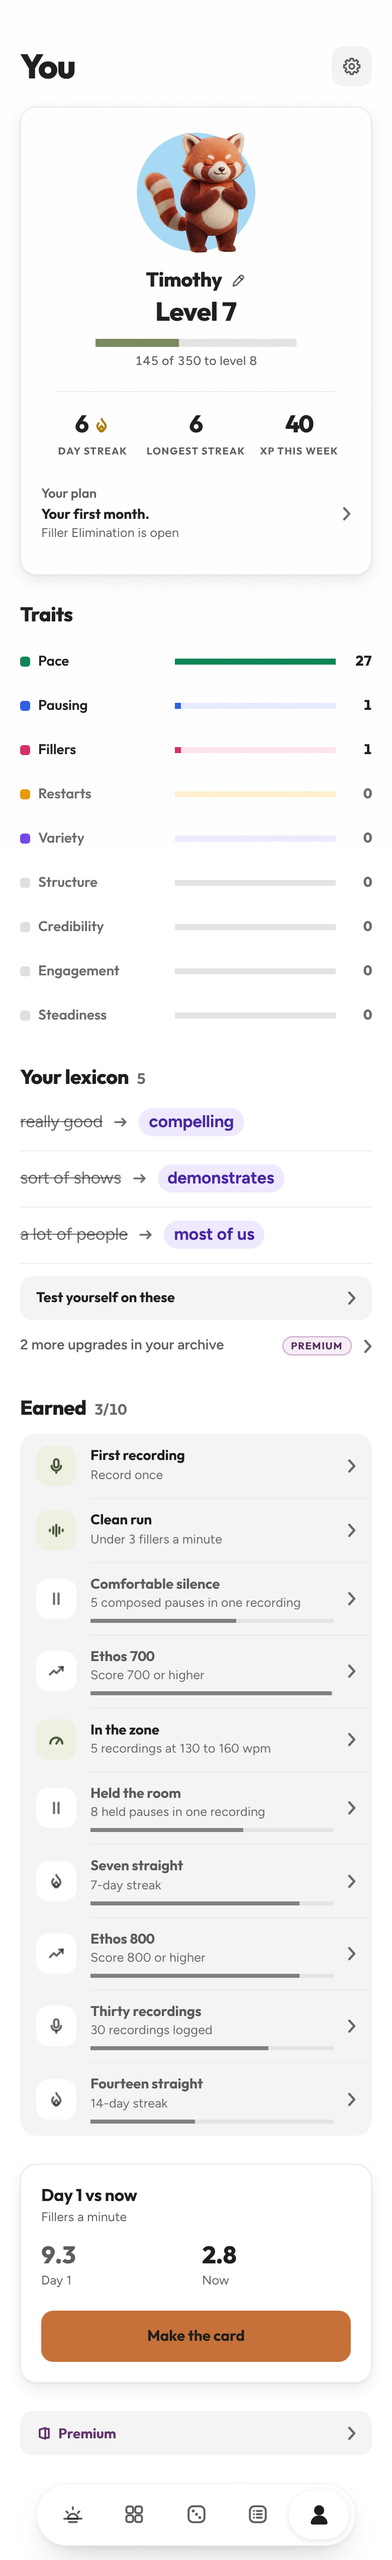
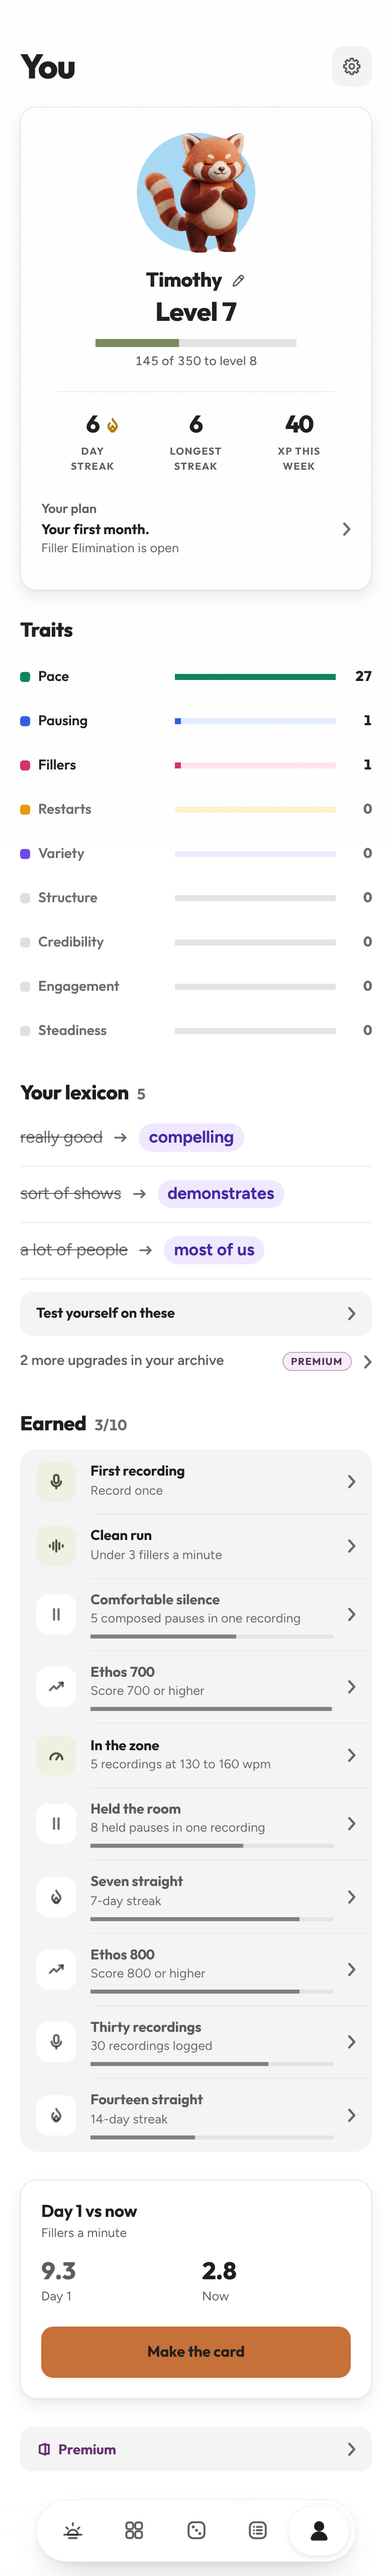
B7: the look loop on You: two-line stat labels, a centred streak, the gate on the card's edge
Stat labels run two short lines at every width (one line crowded the
three at 390 and broke only the longest at 375); the streak flame hangs
off its number so all three numbers centre over their labels; the
account gate takes p-5 and a detail head like Day 1 vs now above it;
the bar's gear twin keeps the title row's 20px gutter.

Claude-Session: https://claude.ai/code/session_01KQpi1wPL2sdqgKKvt94vrP

diff --git a/app/you/page.tsx b/app/you/page.tsx
@@ -699,8 +699,10 @@ export default function YouPage() {
       )}
 
       {showGate && (
-        <section className="card mt-7 p-4">
-          <h2 className="font-display text-row">Save your progress</h2>
+        /* p-5 and a detail head, like Day 1 vs now above it, so the two
+           stacked cards share one inner edge and one title size. */
+        <section className="card mt-7 p-5">
+          <h2 className="detail-head">Save your progress</h2>
           <p className="mt-1 text-caption text-stone-500">
             {history.length} recording{history.length === 1 ? "" : "s"}
             {streak.current > 0 &&
@@ -846,19 +848,24 @@ function Stat({
       {value === undefined ? (
         <Line className="font-display text-num-m" bar="w-9" text="0" />
       ) : (
-        <div className="font-display flex items-center justify-center gap-1 text-num-m tabular-nums">
-          {value === null ? "–" : <CountUp value={value} durationMs={DURATION.max} />}
-          {mark && value !== null && value > 0 && (
-            <span aria-hidden className="you-gold">
-              <IconFlame size={18} />
-            </span>
-          )}
+        /* The flame hangs off the number's right edge, so the number
+           itself stays centred over its label like the other two. */
+        <div className="font-display text-num-m tabular-nums">
+          <span className="relative inline-block">
+            {value === null ? "–" : <CountUp value={value} durationMs={DURATION.max} />}
+            {mark && value !== null && value > 0 && (
+              <span aria-hidden className="you-gold absolute left-full top-1/2 ml-1 -translate-y-1/2">
+                <IconFlame size={18} />
+              </span>
+            )}
+          </span>
         </div>
       )}
-      {/* At 390 each label holds one line; a narrower phone breaks the
-          long one in two (Imprint's own labels run two lines), which the
-          placeholder matches, because the label is drawn in both states. */}
-      <div className="label-micro mt-1.5 text-balance text-stone-500!">{label}</div>
+      {/* Two short lines in every column at every width, as Imprint's
+          run: one line each crowded the three together at 390 and broke
+          only the longest at 375. The label is drawn in both states, so
+          the placeholder is the same height. */}
+      <div className="label-micro mx-auto mt-1.5 max-w-16 text-balance text-stone-500!">{label}</div>
     </div>
   );
 }
